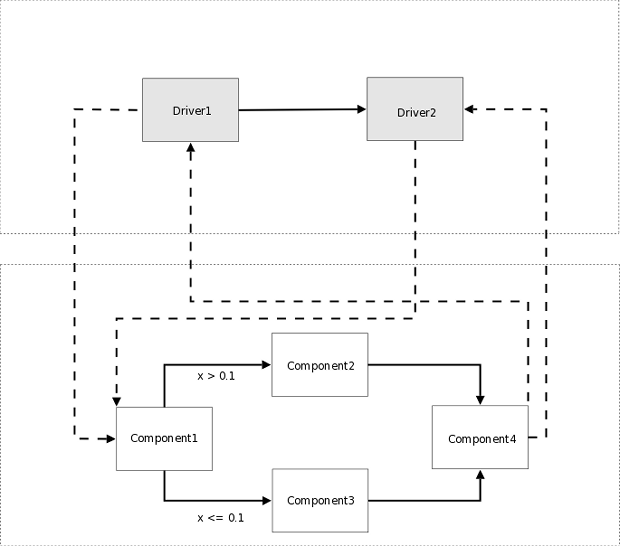
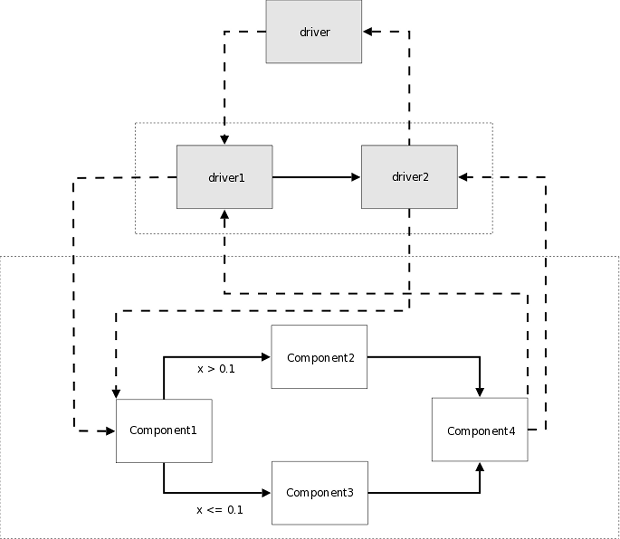
updating docs based on new Driver/Workflow structure

diff --git a/docs/arch-doc/concepts.rst b/docs/arch-doc/concepts.rst
@@ -364,23 +364,23 @@ as shown below.
 _______________
 
 
-The existing implementation supports only sequential data flow workflows.
-However, a new type of workflow that allows both data flow and control flow is
-planned. This new workflow will support concurrent execution and conditional
-branching. The figure below is a notional view of the planned Assembly
-workflow layout. The top workflow, called *driverflow*, will contain Drivers
-only and will be sequential. The bottom workflow, called *workflow*, will be
-concurrent and support conditional branching. The current Assembly design has
-two workflow objects. One is a simple sequential workflow containing only Drivers
-and the other is a sequential data flow workflow containing only Components.
-    
+An Assembly contains at least one Driver, called *driver*, that manages
+execution of the other Components and Drivers within the Assembly. Each Driver
+references a workflow that it iterates over until some condition is met.
+Nested iterations can be constructed by placing a Driver within the workflow
+of another Driver. If a Driver doesn't define its own workflow object, it will
+use the default workflow object that lives in the Assembly. The existing
+implementation of Workflow supports only sequential data flow workflows.
+However, a new type of Workflow that allows both data flow and control flow is
+planned. This new Workflow will support concurrent execution and conditional
+branching.
 
 .. _`control flow`:
 
 .. figure:: ../generated_images/ControlFlow.png
    :align: center
 
-   Notional View of an Assembly with Driver Flow and Control Flow
+   Notional Workflow View of an Assembly
 
 
 .. index:: pair: problem formulation; view

diff --git a/docs/arch-doc/classes.rst b/docs/arch-doc/classes.rst
@@ -19,13 +19,14 @@ Model Composition Classes
 The figure `Class Diagram of Core Classes`_ shows the classes that are the
 building blocks of a *model*. A model is a hierarchical structure with an
 :term:`Assembly` at its root. Within the Assembly is some number of
-:term:`Components`, and a :term:`Workflow`, which controls the execution order
-of the components. The components have attributes that can be linked to
-attributes on other components. An Assembly is a Component, which means that it
-can be contained within another Assembly. This allows for the creation
-of hierarchical models with many levels of nested Assemblies. A :term:`Driver`
-is a Component that repeatedly executes a workflow until some condition is
-met.
+:term:`Components`, and at least one :term:`Driver` which is a special type of
+Component that iterates over a :term:`Workflow` until some condition is met. A
+Workflow controls the execution order of the components that it references.
+The components have attributes that can be linked to attributes on other
+components. An Assembly is a Component, which means that it can be contained
+within another Assembly. This allows for the creation of hierarchical models
+with many levels of nested Assemblies. Workflows can contain Drivers. This
+allows for many levels of nested iteration *within the same Assembly.*
 
 
 .. _`Class Diagram of Core Classes`:
